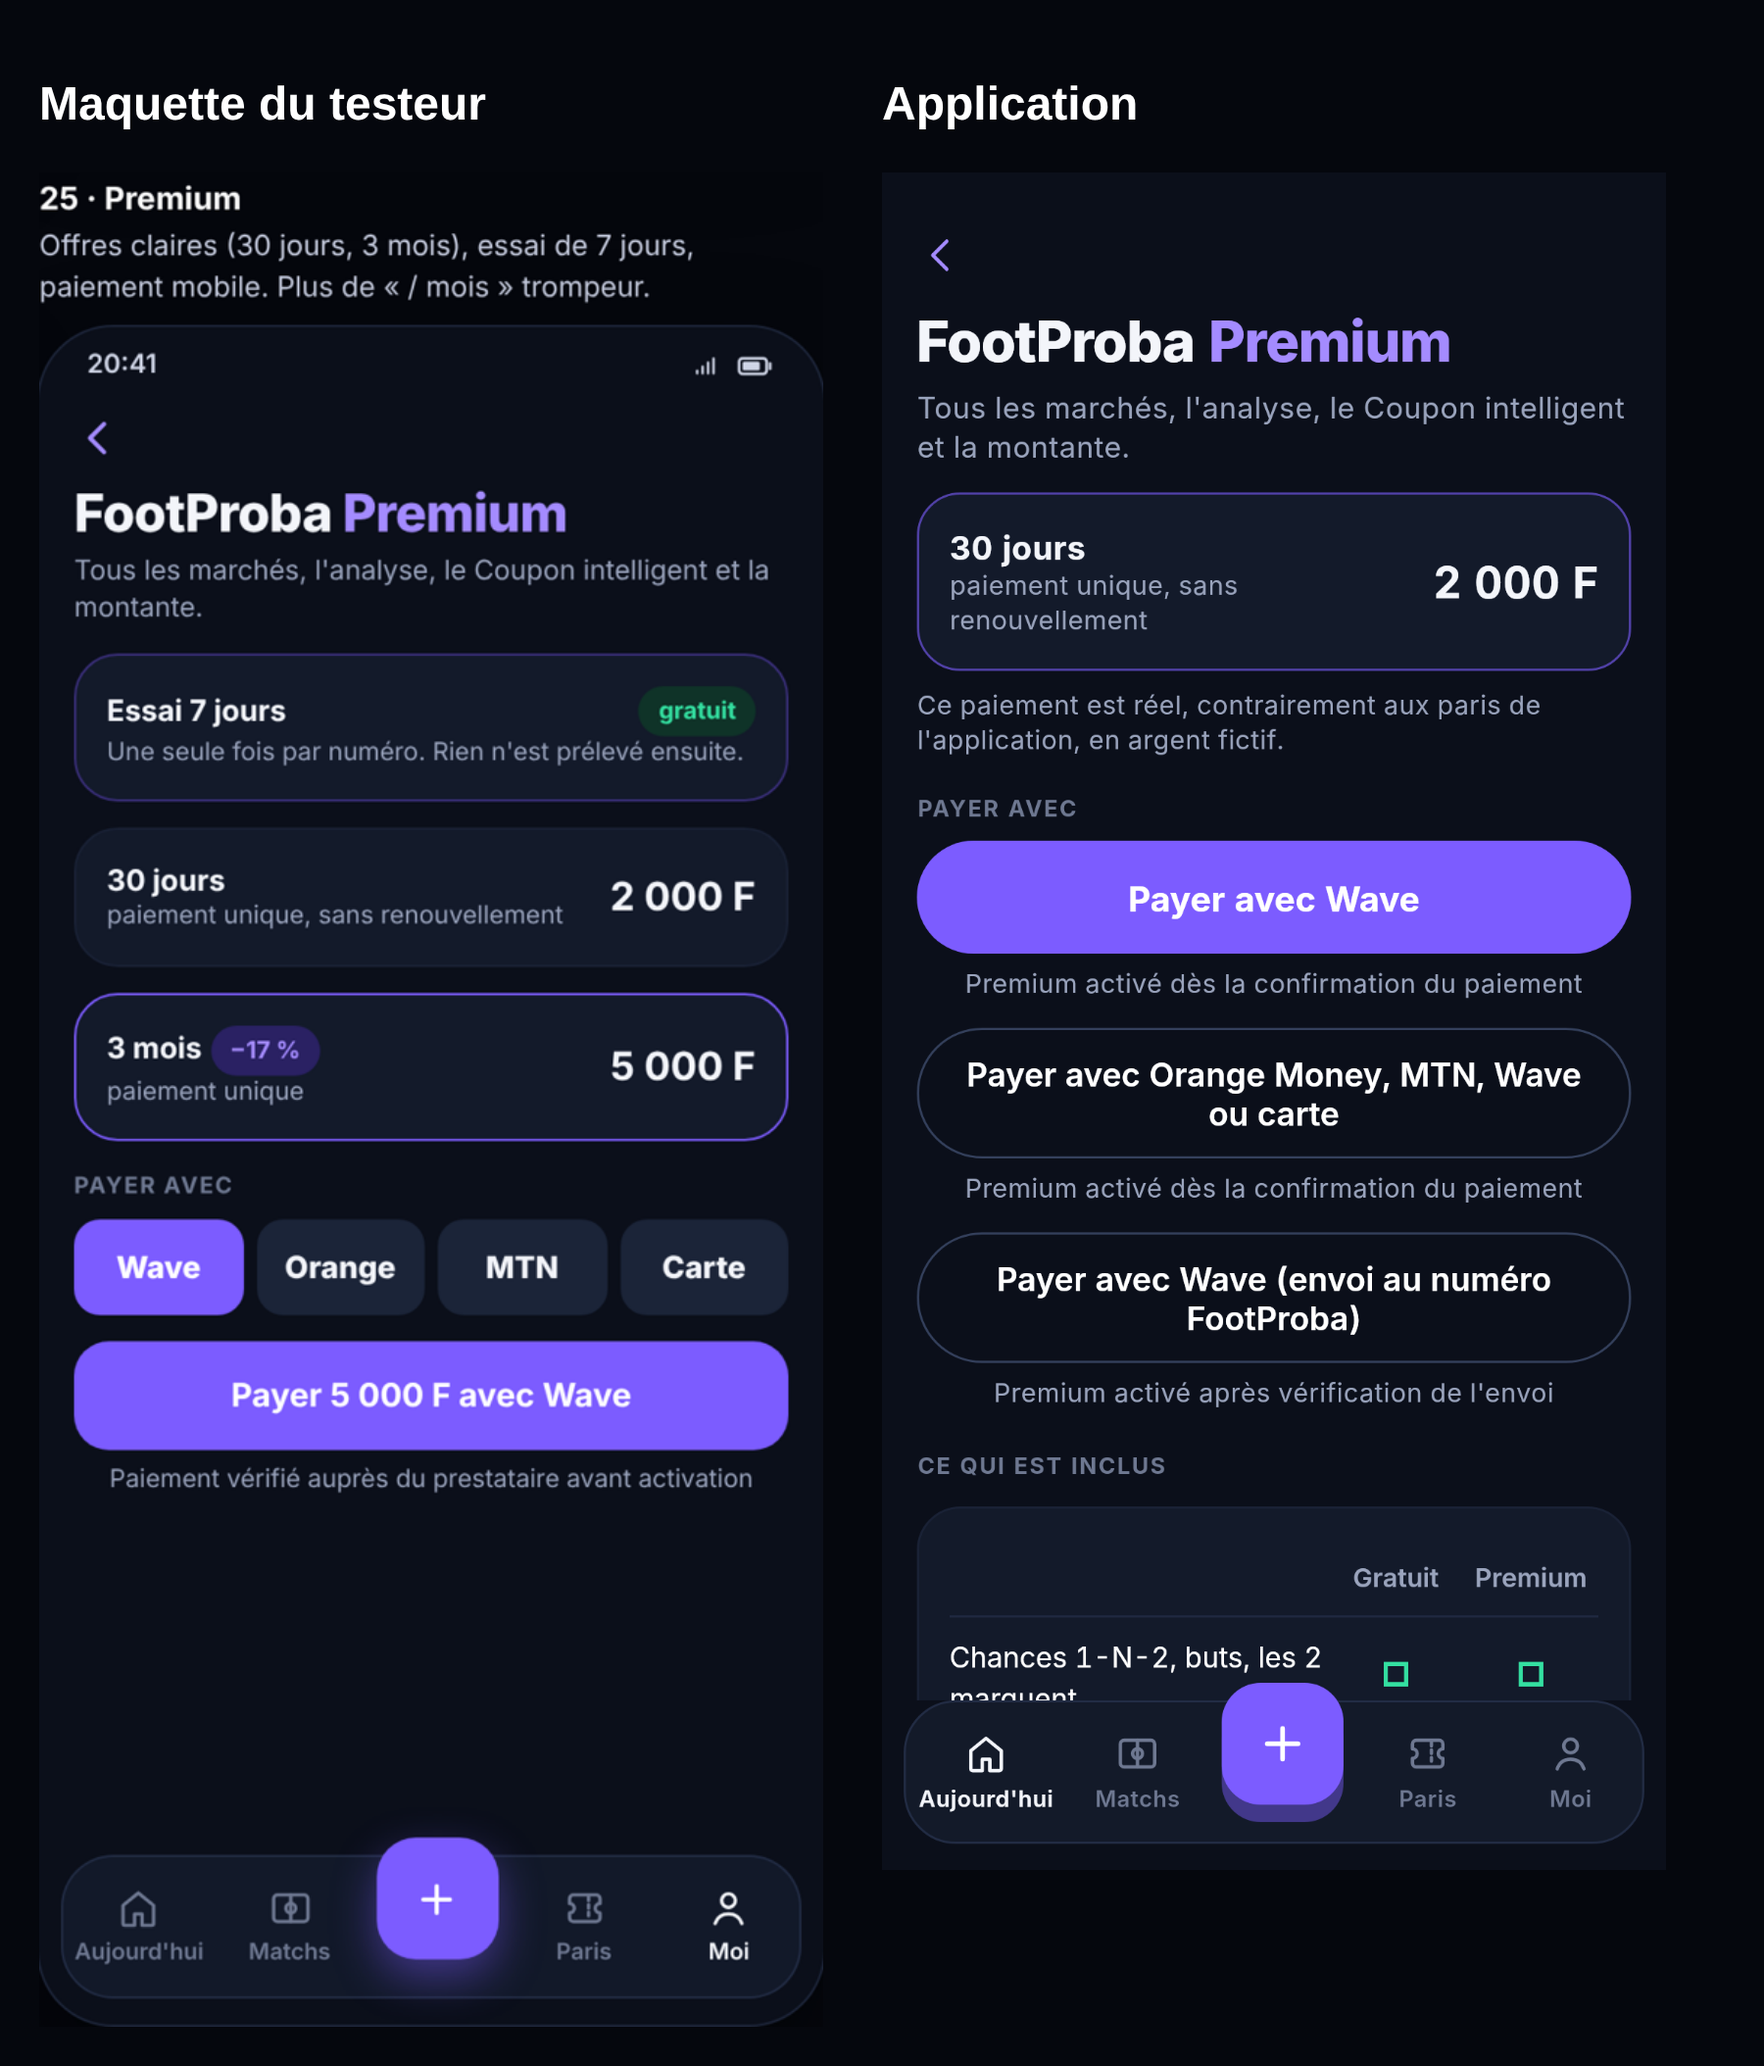
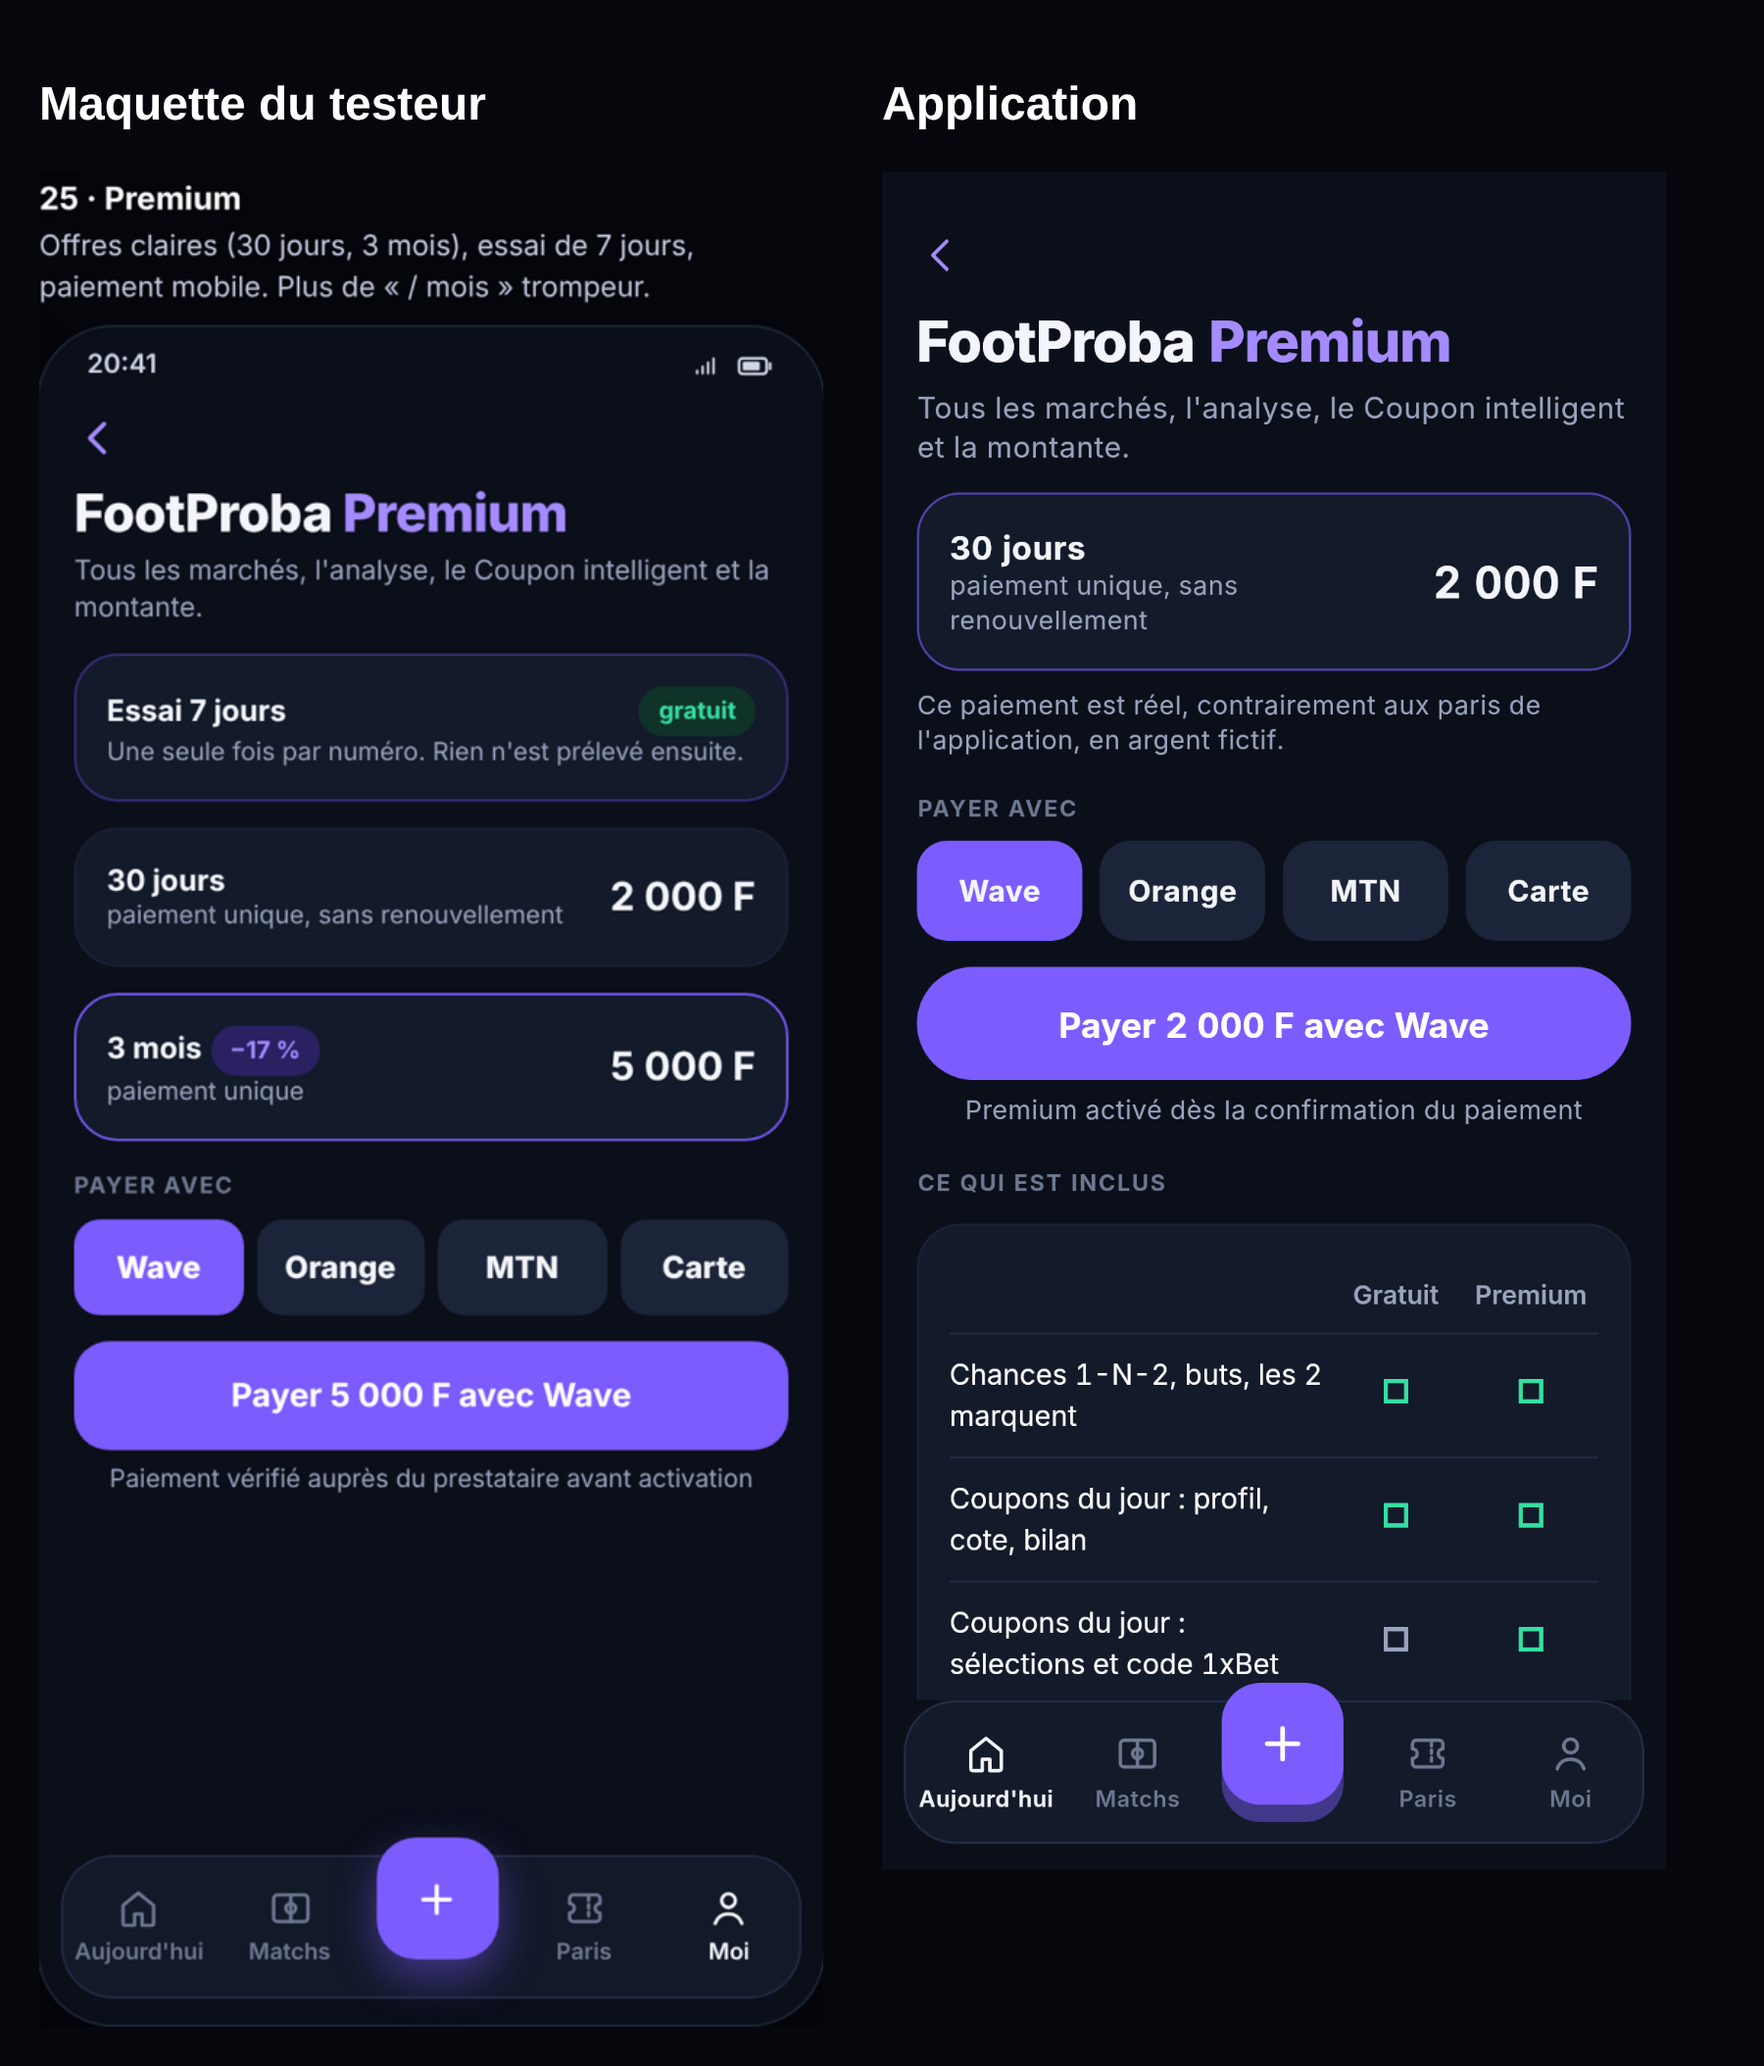
Maquette 25 : moyens de paiement en pastilles courtes (Wave, Orange, MTN, Carte)
Demande du fondateur du 25/11 : comme la maquette, un seul bouton « Payer 2 000 F avec
… ». Chaque pastille est servie par le premier prestataire qui la propose ; le Wave
manuel seulement si aucun paiement en ligne ne prend Wave ; WhatsApp s'il n'y a rien.

Claude-Session: https://claude.ai/code/session_01D1BNdygW426Eq3G75yyrXh

Changed region(s): [[0.4978, 0.4009, 0.9333, 0.8325], [0.7778, 0.7092, 0.8089, 0.8325], [0.84, 0.74, 0.9022, 0.7709]]

diff --git a/app/lib/screens/premium_screen.dart b/app/lib/screens/premium_screen.dart
@@ -167,6 +167,8 @@ class PremiumScreen extends StatefulWidget {
 }
 
 class _PremiumScreenState extends State<PremiumScreen> {
+  /// Pastille choisie (maquette 25 : Wave, Orange, MTN, Carte).
+  String? chosen;
   @override
   Widget build(BuildContext context) {
     final offer = widget.offer, plan = widget.plan;
@@ -213,6 +215,30 @@ class _PremiumScreenState extends State<PremiumScreen> {
         ),
     ];
 
+    // Une pastille par moyen (« Orange Money, MTN, Wave ou carte » → Orange, MTN, Wave,
+    // Carte), chacune servie par le premier prestataire qui le propose ; le Wave manuel
+    // seulement si aucun paiement en ligne ne prend Wave (demande du fondateur du 25/11/2026 :
+    // des noms courts, comme la maquette).
+    String short(String w) => switch (w.trim().toLowerCase()) {
+      'orange money' => 'Orange',
+      'carte' => 'Carte',
+      'mobile money' => 'Mobile Money',
+      _ => w.trim(),
+    };
+    final chipMap = <String, (String, String, String, VoidCallback)>{};
+    for (final o in options) {
+      final parts = o.$1.split(RegExp(r',\s*|\s+ou\s+')).map(short).where((w) => w.isNotEmpty);
+      for (final w in parts) {
+        chipMap.putIfAbsent(w, () => (w, o.$2, o.$3, o.$4));
+      }
+    }
+    const order = ['Wave', 'Orange', 'MTN', 'Moov', 'Mobile Money', 'Carte'];
+    final chips = chipMap.values.toList()
+      ..sort((a, b) {
+        int rank(String x) => order.contains(x) ? order.indexOf(x) : order.length;
+        return rank(a.$1).compareTo(rank(b.$1));
+      });
+    final pick = chips.firstWhere((c) => c.$1 == chosen, orElse: () => chips.first);
     // Maquette 25 : titre, l'offre en ligne avec son prix, PAYER AVEC en pastilles, un seul
     // bouton ; gardés : « paiement réel », ce qui se passe après, le tableau des avantages.
     return Scaffold(
@@ -269,12 +295,36 @@ class _PremiumScreenState extends State<PremiumScreen> {
             const SizedBox(height: 16),
             const VKicker('Payer avec'),
             const SizedBox(height: 8),
-            for (final (i, (_, label, note, onTap)) in options.indexed) ...[
-              if (i > 0) const SizedBox(height: 12),
-              MButton(label, secondary: i > 0, onPressed: onTap),
-              const SizedBox(height: 6),
-              Text(note, textAlign: TextAlign.center, style: V.mu_(12)),
-            ],
+            Row(
+              children: [
+                for (final (i, c) in chips.indexed) ...[
+                  if (i > 0) const SizedBox(width: 8),
+                  Expanded(
+                    child: GestureDetector(
+                      onTap: () => setState(() => chosen = c.$1),
+                      child: Container(
+                        height: 46,
+                        alignment: Alignment.center,
+                        decoration: BoxDecoration(
+                          color: c.$1 == pick.$1 ? V.vi : V.s2,
+                          borderRadius: BorderRadius.circular(14),
+                        ),
+                        child: Text(c.$1, style: V.b(13.5)),
+                      ),
+                    ),
+                  ),
+                ],
+              ],
+            ),
+            const SizedBox(height: 12),
+            MButton(
+              pick.$1 == 'WhatsApp'
+                  ? 'Écrire sur WhatsApp'
+                  : 'Payer ${currency == 'XOF' ? '${thousands(price)} F' : amount} avec ${pick.$1}',
+              onPressed: pick.$4,
+            ),
+            const SizedBox(height: 6),
+            Text(pick.$3, textAlign: TextAlign.center, style: V.mu_(12)),
             const SizedBox(height: 18),
             const VKicker('Ce qui est inclus'),
             const VCard(child: PremiumTable()),

diff --git a/app/test/app_test.dart b/app/test/app_test.dart
@@ -170,6 +170,12 @@ class FakeServer {
   Map<String, dynamic>? montanteReliability;
   final notifications = <Map<String, dynamic>>[];
   bool paymentsConfigured = true;
+
+  /// Paiements en ligne proposés (vide : seulement le Wave manuel).
+  List<Map<String, dynamic>> onlineMethods = [
+    {'id': 'wave', 'label': 'Wave'},
+    {'id': 'paystack', 'label': 'Orange Money, MTN, Wave ou carte'},
+  ];
   bool betaSharing = false;
   final betaEvents = <Map<String, dynamic>>[];
   int latestBuild = 50;
@@ -343,12 +349,7 @@ class FakeServer {
           'price': 2000,
           'currency': 'XOF',
           'days': 30,
-          'methods': [
-            if (paymentsConfigured) ...[
-              {'id': 'wave', 'label': 'Wave'},
-              {'id': 'paystack', 'label': 'Orange Money, MTN, Wave ou carte'},
-            ],
-          ],
+          'methods': [if (paymentsConfigured) ...onlineMethods],
           'manual': paymentsConfigured
               ? {'wave_number': '+2250700000000', 'whatsapp': '+2250500649904'}
               : null,
@@ -2235,7 +2236,10 @@ void main() {
     await tester.tap(find.textContaining('Passer Premium'));
     await tester.pumpAndSettle();
     expect(find.textContaining('Ce paiement est réel'), findsOneWidget);
-    await tester.tap(find.text('Payer avec Orange Money, MTN, Wave ou carte'));
+    // Maquette 25 : pastilles courtes, puis un seul bouton.
+    await tester.tap(find.text('Orange'));
+    await tester.pumpAndSettle();
+    await tester.tap(find.text('Payer 2${nbsp}000 F avec Orange'));
     await tester.pumpAndSettle();
     expect(server.boughtWith, 'paystack');
     expect(opened.single.toString(), 'https://checkout.cinetpay.com/payment/abc');
@@ -2277,7 +2281,7 @@ void main() {
     await tester.tap(find.textContaining('Passer Premium'));
     await tester.pumpAndSettle();
     expect(find.text('Requête invalide'), findsNothing);
-    await tester.tap(find.text('Payer avec Mobile Money ou carte'));
+    await tester.tap(find.text('Payer 2${nbsp}000 F avec Mobile Money'));
     await tester.pumpAndSettle();
     expect(server.boughtWith, isNull);
     expect(opened.single.toString(), 'https://checkout.cinetpay.com/payment/abc');
@@ -2334,7 +2338,8 @@ void main() {
 
   testWidgets('Premium : Wave manuel, numéro affiché et capture envoyée sur WhatsApp', (tester) async {
     SharedPreferences.setMockInitialValues({'token': 'jeton'});
-    final server = FakeServer();
+    // Wave manuel seulement quand aucun paiement en ligne ne prend Wave.
+    final server = FakeServer()..onlineMethods = [];
     final opened = <Uri>[];
     final state = AppState(
       api: ApiClient(baseUrl: 'http://serveur', httpClient: MockClient(server.handle)),
@@ -2353,7 +2358,7 @@ void main() {
     await tester.scrollUntilVisible(find.textContaining('Passer Premium'), 200);
     await tester.tap(find.textContaining('Passer Premium'));
     await tester.pumpAndSettle();
-    await tester.tap(find.text('Payer avec Wave (envoi au numéro FootProba)'));
+    await tester.tap(find.text('Payer 2${nbsp}000 F avec Wave'));
     await tester.pumpAndSettle();
     expect(find.text('+225 07 00 00 00 00'), findsOneWidget); // groupé pour le recopier
     expect(server.boughtWith, isNull);
